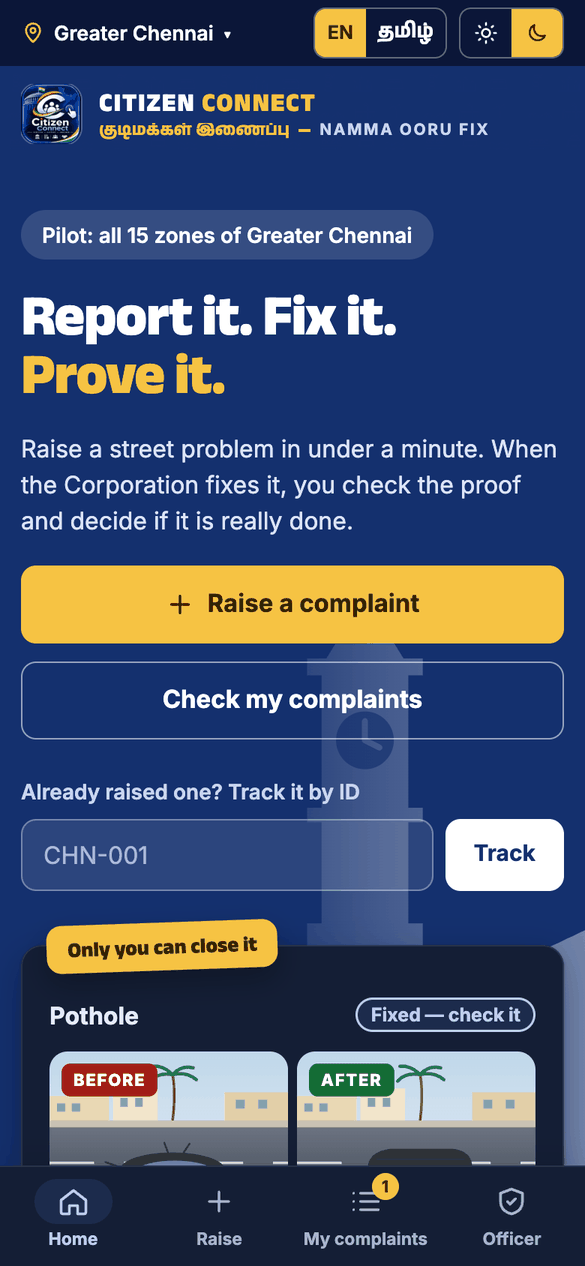
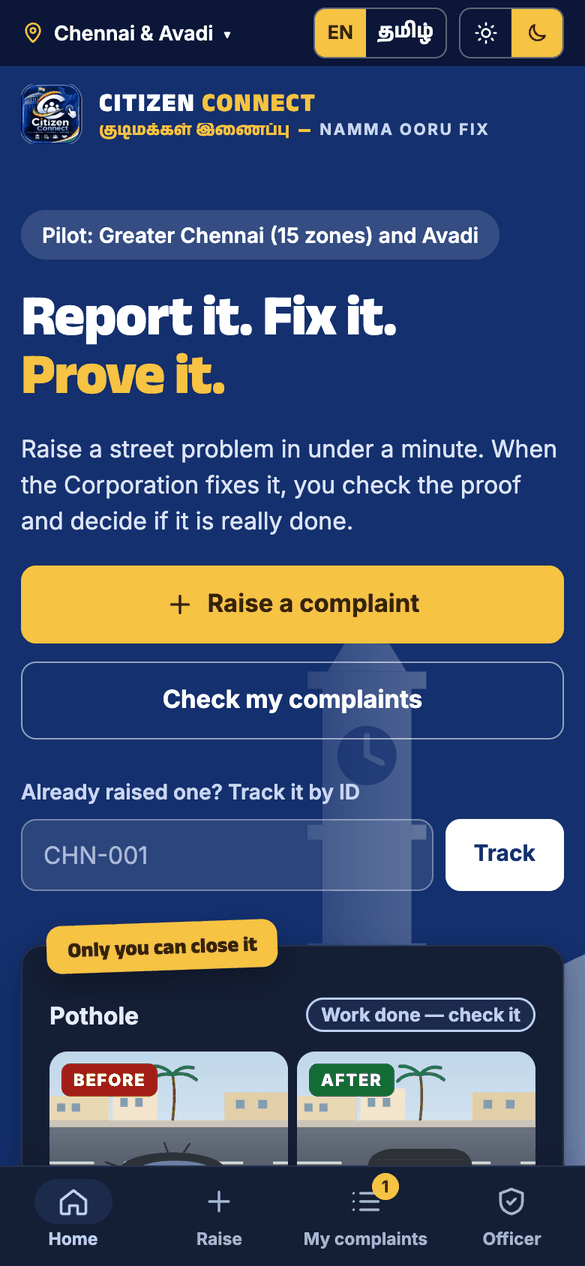
Demo mode for presenting; README and screenshots for the new loop
- Demo mode (footer switch, off by default, yellow banner when on): adds
  'Use a demo photo' and 'Use demo location' on Raise and Mark resolved.
  A demo photo counts as taken now, so it passes the photo-date check;
  complaints that used one are labelled as demo.
- README rewritten for the follow-up / citizen-resolves loop, Avadi, and
  demo mode; screenshots retaken.
- Tests: 50 unit tests, 48-check end-to-end run including demo mode.

diff --git a/js/pages/verify.js b/js/pages/verify.js
@@ -3,17 +3,17 @@
 // shown next to the first photo; "Reopen" sends it back to the officer with a reason.
 
 import { h, icon, toast, param, shortDate, distanceM } from "../helpers.js";
-import { t, lang, catName, ago } from "../i18n.js";
+import { t, lang, catName, ago, prefs } from "../i18n.js";
 import { boot } from "../layout.js";
 import * as store from "../store.js";
 import { checkReason, checkLocation, LIMITS } from "../validate.js";
 import { MAX_FIX_ACCURACY } from "../data.js";
 import { fixBaseline } from "../rules.js";
-import { preparePhoto, putPhoto, deletePhoto, isQuotaError } from "../photos.js";
+import { preparePhoto, putPhoto, deletePhoto, isQuotaError, demoPhoto } from "../photos.js";
 import { badge, compare, photo, timeline, locationMatch, zoneLine, empty, field, dueInfo, fixTiming } from "../ui.js";
 
 const id = (param("id") || "").toUpperCase();
-const res = { blob: null, url: "", takenAt: null, loc: null }; // the new photo for "Mark resolved"
+const res = { blob: null, url: "", takenAt: null, loc: null, demo: false }; // the new photo for "Mark resolved"
 let errs = {}, locating = false, saving = false;
 let reopening = false, reason = "", reasonErr = "";
 let redraw = () => {};
@@ -33,6 +33,17 @@ async function pick(c, file) {
   Object.assign(res, { blob: out.blob, url: URL.createObjectURL(out.blob), takenAt: out.takenAt });
   delete errs.photo;
   redraw();
+}
+
+/** Demo mode: a sample "fixed street" photo, counted as taken now. */
+async function useDemoPhoto() {
+  try {
+    const p = await demoPhoto("img/street-after.svg");
+    if (res.url) URL.revokeObjectURL(res.url);
+    Object.assign(res, { blob: p.blob, url: URL.createObjectURL(p.blob), takenAt: p.takenAt, demo: true });
+    delete errs.photo;
+    redraw();
+  } catch { toast(t("Could not load the demo photo"), { kind: "err" }); }
 }
 
 /** GPS where the new photo was taken (always a fresh reading). */
@@ -62,9 +73,9 @@ async function resolve(c) {
   const key = "r-" + Date.now().toString(36) + Math.random().toString(36).slice(2, 7);
   try {
     await putPhoto(key, res.blob);
-    const { previous } = store.move(c.id, "Verified", "citizen", { afterPhoto: "idb:" + key, afterTakenAt: res.takenAt, afterLat: res.loc.lat, afterLng: res.loc.lng, afterAcc: res.loc.acc });
+    const { previous } = store.move(c.id, "Verified", "citizen", { afterPhoto: "idb:" + key, afterTakenAt: res.takenAt, afterLat: res.loc.lat, afterLng: res.loc.lng, afterAcc: res.loc.acc, demo: res.demo });
     if (res.url) URL.revokeObjectURL(res.url);
-    Object.assign(res, { blob: null, url: "", takenAt: null, loc: null });
+    Object.assign(res, { blob: null, url: "", takenAt: null, loc: null, demo: false });
     toast(t("✓ Resolved — complaint closed"), { action: t("Undo"), ms: 5000, onAction: () => { store.restore(previous); deletePhoto(key).catch(() => {}); redraw(); } });
   } catch (e) {
     deletePhoto(key).catch(() => {});
@@ -112,10 +123,12 @@ function decide(c) {
       res.url ? h("div", { class: "photo-meta" }, h("span", { class: "muted", text: t("Taken {when} · shown next to your first photo", { when: shortDate(new Date(res.takenAt).toISOString(), lang()) }) }),
           h("button", { type: "button", class: "link-btn", onclick: () => { URL.revokeObjectURL(res.url); Object.assign(res, { blob: null, url: "", takenAt: null }); redraw(); }, text: t("Retake photo") }))
         : h("label", { for: "after", class: "drop" + (errs.photo ? " err" : "") }, icon("camera", 28), h("b", { text: t("Take a new photo") })),
+      !res.url && prefs().demo ? h("div", { class: "loc-btns demo-btns" }, h("button", { type: "button", class: "btn btn-ghost", onclick: useDemoPhoto }, icon("camera", 18), t("Use a demo photo"))) : null,
       errs.photo ? h("p", { class: "field-err", role: "alert", text: errs.photo }) : null),
     h("div", { class: "field" + (errs.loc ? " has-err" : "") }, h("p", { class: "field-label", text: t("Where did you take it?") }),
       res.loc ? h("p", { class: "match " + (dist <= 50 ? "ok" : "far") }, icon(dist <= 50 ? "check" : "info", 18), t("{d} m from your first pin", { d: dist }) + ` · ${t("accuracy {m} m", { m: res.loc.acc })}`)
-        : h("div", { class: "loc-btns" }, h("button", { type: "button", class: "btn btn-primary", disabled: locating || null, onclick: locate }, icon("pin", 18), locating ? t("Finding you…") : t("Use my location"))),
+        : h("div", { class: "loc-btns" }, h("button", { type: "button", class: "btn btn-primary", disabled: locating || null, onclick: locate }, icon("pin", 18), locating ? t("Finding you…") : t("Use my location")),
+            prefs().demo ? h("button", { type: "button", class: "btn btn-ghost", onclick: () => { res.demo = true; setLoc({ lat: c.lat + 0.00008, lng: c.lng + 0.00005, acc: 10 }); }, text: t("Use demo location") }) : null),
       errs.loc ? h("p", { class: "field-err", role: "alert", text: errs.loc }) : null),
     h("div", { class: c.status === "Fixed" ? "two" : "" },
       h("button", { type: "button", class: "btn btn-green btn-lg" + (c.status === "Fixed" ? "" : " btn-block") + (saving ? " is-busy" : ""), disabled: saving || null, onclick: () => resolve(c) }, saving ? h("span", { class: "spinner" }) : icon("check", 20), t("Mark resolved")),
@@ -162,7 +175,8 @@ function render(main) {
           fixTiming(c) ? h("p", { class: fixTiming(c).late ? "warn-text" : "", text: fixTiming(c).text }) : null,
           c.afterTakenAt ? h("p", {}, h("b", { text: t("Resolution photo taken:") }), " " + shortDate(new Date(c.afterTakenAt).toISOString(), lang())) : null,
           c.note ? h("p", {}, h("b", { text: t("Your description:") }), " " + c.note) : null,
-          h("p", { class: "muted", text: zoneLine(c) }))),
+          h("p", { class: "muted", text: zoneLine(c) }),
+          c.demo ? h("p", { class: "muted", text: t("Demo mode: a sample photo or location was used.") }) : null)),
       h("div", { class: "col" }, statusNote(c), decide(c),
         h("section", { class: "card block" }, h("h2", { class: "block-title", text: t("What happened") }), timeline(c))))));
 }

diff --git a/js/pages/raise.js b/js/pages/raise.js
@@ -2,12 +2,12 @@
 // Nothing is saved until every check in validate.js passes.
 
 import { h, icon, toast, toastNext, distanceM, reducedMotion } from "../helpers.js";
-import { t, catName, placeName } from "../i18n.js";
-import { CATEGORIES, placeFor } from "../data.js";
+import { t, catName, placeName, prefs } from "../i18n.js";
+import { CATEGORIES, placeFor, catByKey, DEMO_POINT } from "../data.js";
 import { boot } from "../layout.js";
 import * as store from "../store.js";
 import { checkRaise, checkLocation, LIMITS } from "../validate.js";
-import { preparePhoto, putPhoto, deletePhoto, isQuotaError } from "../photos.js";
+import { preparePhoto, putPhoto, deletePhoto, isQuotaError, demoPhoto } from "../photos.js";
 import { field, pageHead } from "../ui.js";
 
 const q = new URLSearchParams(location.search);
@@ -15,6 +15,7 @@ const form = {
   cat: CATEGORIES.some((c) => c.key === q.get("cat")) ? q.get("cat") : "",
   photo: null, photoURL: "", photoInfo: "", photoTakenAt: null,
   loc: null, area: "", note: "",
+  demo: false, // a demo-mode photo or location was used
 };
 let showMore = q.get("more") === "1" || CATEGORIES.findIndex((c) => c.key === form.cat) >= 9;
 let tried = false, sending = false, locating = false, photoErr = "", locErr = "";
@@ -71,7 +72,19 @@ function photoStep(err) {
   return h("section", { class: "card block" + (err ? " has-err" : ""), id: "sec-photo", "aria-labelledby": "h-photo" },
     h("h2", { id: "h-photo", class: "block-title", text: t("2 · Add a photo") }), input, body,
     h("p", { class: "field-hint", text: t("Keep people’s faces and vehicle number plates out of the photo.") }),
+    !form.photo && prefs().demo ? h("div", { class: "loc-btns demo-btns" }, h("button", { type: "button", class: "btn btn-ghost", onclick: useDemoPhoto }, icon("camera", 18), t("Use a demo photo"))) : null,
     err ? h("p", { class: "field-err", role: "alert", text: t(err) }) : null);
+}
+
+/** Demo mode: a sample photo of the chosen problem type (or a random one), counted as taken now. */
+async function useDemoPhoto() {
+  const cat = form.cat ? catByKey(form.cat) : CATEGORIES[Math.floor(Math.random() * (CATEGORIES.length - 1))];
+  try {
+    const p = await demoPhoto(`img/scenes/${cat.scene}.svg`);
+    form.demo = true;
+    setPhoto(p.blob, `${t("Demo photo")} · ${t(cat.en)} · ${Math.round(p.blob.size / 1024)} KB`, p.takenAt);
+    toast(t("Demo photo added"));
+  } catch { toast(t("Could not load the demo photo"), { kind: "err" }); }
 }
 
 /** Keep the chosen photo in memory until submit. */
@@ -117,7 +130,8 @@ function locStep(err) {
         h("a", { class: "link", href: `https://www.openstreetmap.org/?mlat=${form.loc.lat}&mlon=${form.loc.lng}#map=18/${form.loc.lat}/${form.loc.lng}`, target: "_blank", rel: "noopener noreferrer", text: t("View on map") })),
         h("p", { text: `${form.loc.lat.toFixed(4)}, ${form.loc.lng.toFixed(4)} · ${placeName(form.loc)}${form.loc.acc ? " · " + t("accuracy {m} m", { m: form.loc.acc }) : ""}` }))
     : h("div", { class: "loc-btns" },
-        h("button", { type: "button", class: "btn btn-primary", disabled: locating || null, onclick: locate }, icon("pin", 18), locating ? t("Finding you…") : t("Use my location")));
+        h("button", { type: "button", class: "btn btn-primary", disabled: locating || null, onclick: locate }, icon("pin", 18), locating ? t("Finding you…") : t("Use my location")),
+        prefs().demo ? h("button", { type: "button", class: "btn btn-ghost", onclick: () => { form.demo = true; setLoc(DEMO_POINT); }, text: t("Use demo location (Avadi)") }) : null);
   return h("section", { class: "card block" + (err ? " has-err" : ""), id: "sec-loc", "aria-labelledby": "h-loc" },
     h("h2", { id: "h-loc", class: "block-title", text: t("3 · Where is it?") }), body,
     near ? h("div", { class: "notice" }, icon("info", 18), h("p", {}, h("b", { text: t("Similar complaint nearby:") }), " ", t("{id} ({cat}) is {m} m away and already being handled. You can still submit if this is a different spot.", { id: near.id, cat: catName(near.cat), m: distanceM(near.lat, near.lng, form.loc.lat, form.loc.lng) }))) : null,
@@ -160,7 +174,7 @@ function submitBox() {
 /** Empty everything. */
 function clearForm() {
   if (form.photoURL) URL.revokeObjectURL(form.photoURL);
-  Object.assign(form, { cat: "", photo: null, photoURL: "", photoInfo: "", photoTakenAt: null, loc: null, area: "", note: "" });
+  Object.assign(form, { cat: "", photo: null, photoURL: "", photoInfo: "", photoTakenAt: null, loc: null, area: "", note: "", demo: false });
   tried = false; photoErr = ""; locErr = "";
   redraw();
   toast(t("Form cleared"));
@@ -183,7 +197,7 @@ async function submit(e) {
   const key = "p-" + Date.now().toString(36) + Math.random().toString(36).slice(2, 7);
   try {
     await putPhoto(key, form.photo);
-    const c = store.create({ cat: form.cat, photoRef: "idb:" + key, photoTakenAt: form.photoTakenAt, lat: form.loc.lat, lng: form.loc.lng, acc: form.loc.acc, area: form.area, note: form.note, city: form.loc.city, zone: form.loc.zone });
+    const c = store.create({ cat: form.cat, photoRef: "idb:" + key, photoTakenAt: form.photoTakenAt, lat: form.loc.lat, lng: form.loc.lng, acc: form.loc.acc, area: form.area, note: form.note, city: form.loc.city, zone: form.loc.zone, demo: form.demo });
     toastNext(t("Complaint {id} registered — it is at the top of your list", { id: c.id }));
     setTimeout(() => { location.href = `my.html?new=${encodeURIComponent(c.id)}`; }, reducedMotion() ? 0 : 700);
   } catch (err) {

diff --git a/js/i18n-ta.js b/js/i18n-ta.js
@@ -353,5 +353,17 @@ export default {
  "This place is outside the pilot area (Greater Chennai and Avadi).": "இந்த இடம் முன்னோட்டப் பகுதிக்கு (பெருநகர சென்னை மற்றும் ஆவடி) வெளியே உள்ளது.",
  "Enter the 4-digit PIN.": "4 இலக்க PIN-ஐ உள்ளிடவும்.",
  "This photo was taken before the officer finished the work. Take a new photo at the spot now.": "அதிகாரி வேலையை முடிப்பதற்கு முன்பே இந்தப் புகைப்படம் எடுக்கப்பட்டது. இப்போது அந்த இடத்தில் புதிய புகைப்படம் எடுக்கவும்.",
- "Officer update": "அதிகாரியின் தகவல்"
+ "Officer update": "அதிகாரியின் தகவல்",
+ "Demo mode is on — sample photos and location can be used. Turn it off in the footer.": "டெமோ பயன்முறை இயக்கத்தில் உள்ளது — மாதிரிப் புகைப்படங்களும் இருப்பிடமும் பயன்படுத்தலாம். அடிக்குறிப்பில் அணைக்கலாம்.",
+ "Demo mode on — sample photos and location are available": "டெமோ பயன்முறை இயக்கப்பட்டது — மாதிரிப் புகைப்படங்களும் இருப்பிடமும் கிடைக்கும்",
+ "Demo mode off": "டெமோ பயன்முறை அணைக்கப்பட்டது",
+ "Demo mode: on (turn off)": "டெமோ பயன்முறை: இயக்கத்தில் (அணை)",
+ "Demo mode: off (turn on for presenting)": "டெமோ பயன்முறை: அணைப்பில் (காட்சிப்படுத்த இயக்கு)",
+ "Use a demo photo": "மாதிரிப் புகைப்படம் பயன்படுத்து",
+ "Demo photo": "மாதிரிப் புகைப்படம்",
+ "Demo photo added": "மாதிரிப் புகைப்படம் சேர்க்கப்பட்டது",
+ "Could not load the demo photo": "மாதிரிப் புகைப்படத்தை ஏற்ற முடியவில்லை",
+ "Use demo location (Avadi)": "மாதிரி இருப்பிடம் (ஆவடி)",
+ "Use demo location": "மாதிரி இருப்பிடம் பயன்படுத்து",
+ "Demo mode: a sample photo or location was used.": "டெமோ பயன்முறை: மாதிரிப் புகைப்படம் அல்லது இருப்பிடம் பயன்படுத்தப்பட்டது."
 };

diff --git a/service-worker.js b/service-worker.js
@@ -1,5 +1,5 @@
 // service-worker.js — saves the app's files so it opens offline. Generated by tools-build-sw.py.
-const CACHE = "citizen-connect-ef77f6ca72";
+const CACHE = "citizen-connect-6d1feb6fbd";
 const FILES = ["./css/style.css", "./fonts/anek-latin-latin-800-normal.woff2", "./fonts/anek-tamil-tamil-500-normal.woff2", "./fonts/anek-tamil-tamil-700-normal.woff2", "./fonts/anek-tamil-tamil-800-normal.woff2", "./fonts/inter-latin-400-normal.woff2", "./fonts/inter-latin-600-normal.woff2", "./fonts/inter-latin-700-normal.woff2", "./fonts/inter-latin-800-normal.woff2", "./img/icons/icon-180.png", "./img/icons/icon-192.png", "./img/icons/icon-32.png", "./img/icons/icon-512.png", "./img/icons/icon-maskable-512.png", "./img/logo-96.png", "./img/pattern-dark.svg", "./img/scenes/broken-footpath.svg", "./img/scenes/construction-debris.svg", "./img/scenes/drainage-overflow.svg", "./img/scenes/fallen-tree.svg", "./img/scenes/garbage-on-road.svg", "./img/scenes/hanging-wire.svg", "./img/scenes/open-manhole.svg", "./img/scenes/other.svg", "./img/scenes/pothole.svg", "./img/scenes/public-toilet.svg", "./img/scenes/stray-animals.svg", "./img/scenes/streetlight-off.svg", "./img/scenes/water-pipe-leak.svg", "./img/scenes/water-stagnation.svg", "./img/skyline-a.svg", "./img/street-after.svg", "./img/street-before.svg", "./index.html", "./js/data.js", "./js/helpers.js", "./js/i18n-ta.js", "./js/i18n.js", "./js/layout.js", "./js/pages/home.js", "./js/pages/login.js", "./js/pages/my.js", "./js/pages/officer.js", "./js/pages/raise.js", "./js/pages/update.js", "./js/pages/verify.js", "./js/photos.js", "./js/rules.js", "./js/store.js", "./js/ui.js", "./js/validate.js", "./login.html", "./manifest.json", "./my.html", "./officer.html", "./raise.html", "./update.html", "./verify.html"];
 
 // Save every file on install.

diff --git a/js/layout.js b/js/layout.js
@@ -128,7 +128,8 @@ function header(active, officerPage, rerender) {
         tab("my.html", "my", t("My complaints"), need ? h("span", { class: "count", "aria-label": t("{n} need your check", { n: need }), text: need }) : null),
         h("a", { href: isOfficer() ? "officer.html" : "login.html", class: "nav-btn" + (active === "login" ? " on" : "") }, icon("shield", 16), t("Officer login")));
   const main = h("header", { class: "head" }, h("div", { class: "wrap head-in" }, brand(), nav));
-  return [util, main];
+  const demo = p.demo ? h("div", { class: "demo-strip", role: "status" }, h("div", { class: "wrap" }, icon("info", 16), t("Demo mode is on — sample photos and location can be used. Turn it off in the footer."))) : null;
+  return [util, main, demo].filter(Boolean);
 }
 
 /** Bottom tab bar for phones. */
@@ -161,7 +162,12 @@ function footer() {
         setOfficer(false);
         toast(t("All data on this device erased"));
         setTimeout(() => { location.href = "index.html"; }, 600);
-      } }, t("Erase data on this device")))));
+      } }, t("Erase data on this device")),
+      h("button", { type: "button", class: "link-btn", "aria-pressed": prefs().demo ? "true" : "false", onclick: () => {
+        setPref("demo", !prefs().demo);
+        toast(prefs().demo ? t("Demo mode on — sample photos and location are available") : t("Demo mode off"), { kind: "info" });
+        setTimeout(() => location.reload(), 600);
+      } }, prefs().demo ? t("Demo mode: on (turn off)") : t("Demo mode: off (turn on for presenting)")))));
 }
 
 /** Ask before wiping (uses a simple built-in prompt-free two-tap confirm). */

diff --git a/js/pages/update.js b/js/pages/update.js
@@ -128,7 +128,8 @@ function render(main) {
         h("div", { class: "card block facts" },
           h("p", {}, h("b", { text: t("Location:") }), ` ${c.lat.toFixed(5)}, ${c.lng.toFixed(5)}` + (c.acc ? ` · ${t("accuracy {m} m", { m: c.acc })}` : "")),
           h("p", {}, h("a", { class: "btn btn-primary", href: `https://www.google.com/maps/dir/?api=1&destination=${c.lat},${c.lng}`, target: "_blank", rel: "noopener noreferrer" }, icon("pin", 18), t("Directions to the spot"))),
-          c.note ? h("p", {}, h("b", { text: t("Citizen's description:") }), " " + c.note) : null)),
+          c.note ? h("p", {}, h("b", { text: t("Citizen's description:") }), " " + c.note) : null,
+          c.demo ? h("p", { class: "muted", text: t("Demo mode: a sample photo or location was used.") }) : null)),
       h("div", { class: "col" }, action(c), h("section", { class: "card block" }, h("h2", { class: "block-title", text: t("What happened") }), timeline(c))))));
 }
 

diff --git a/js/photos.js b/js/photos.js
@@ -90,6 +90,22 @@ export function setImg(img, ref) {
   photoURL(ref).then((u) => { if (u) img.src = u; });
 }
 
+/**
+ * Demo mode: turn one of the app's own pictures into a JPEG "photo taken now", so the loop can be
+ * shown without a camera. Complaints that use it are marked as demo.
+ */
+export async function demoPhoto(path) {
+  const img = new Image();
+  img.src = path;
+  await img.decode();
+  const canvas = document.createElement("canvas");
+  canvas.width = 1200; canvas.height = 800;
+  canvas.getContext("2d").drawImage(img, 0, 0, canvas.width, canvas.height);
+  const blob = await new Promise((r) => canvas.toBlob(r, "image/jpeg", 0.8));
+  if (!blob) throw new Error("demo-photo");
+  return { blob, width: canvas.width, height: canvas.height, takenAt: Date.now() };
+}
+
 /** Decode an image file to check it is a real picture and get its size. */
 function decode(file) {
   return new Promise((resolve) => {

diff --git a/js/store.js b/js/store.js
@@ -52,12 +52,12 @@ function takeId() {
 }
 
 /** Create a new complaint from a validated form; returns the saved complaint. */
-export function create({ cat, photoRef, photoTakenAt, lat, lng, acc, area, note, city, zone }) {
+export function create({ cat, photoRef, photoTakenAt, lat, lng, acc, area, note, city, zone, demo = false }) {
   const now = new Date().toISOString();
   const c = {
     id: takeId(), cat, area: area.trim(), city, zone, lat, lng, acc: acc || null, note: (note || "").trim(), status: "Submitted", mine: true,
     beforePhoto: photoRef, beforeTakenAt: photoTakenAt || null, afterPhoto: null, officerNote: "", afterLat: null, afterLng: null,
-    reopenCount: 0, reText: "", createdAt: now, updatedAt: now,
+    reopenCount: 0, reText: "", demo, createdAt: now, updatedAt: now,
     history: [{ status: "Submitted", at: now, by: "citizen", note: "" }],
   };
   const list = all();

diff --git a/css/style.css b/css/style.css
@@ -308,6 +308,9 @@ button.stat.on { border-color: var(--link); box-shadow: 0 0 0 2px var(--link); }
 .photo-meta { display: flex; justify-content: space-between; align-items: center; gap: 8px; flex-wrap: wrap; font-size: 13.5px; }
 .loc-btns { display: flex; gap: 10px; flex-wrap: wrap; }
 .due-pick { display: grid; gap: 10px; }
+.demo-strip { background: #FFE9A8; color: #5A4300; font-size: 13.5px; font-weight: 600; }
+.demo-strip .wrap { display: flex; gap: 8px; align-items: center; padding-top: 6px; padding-bottom: 6px; }
+.demo-btns { margin-top: 10px; }
 .loc-ok { padding: 12px 14px; border-radius: var(--r-sm); background: var(--green-bg); display: grid; gap: 4px; font-size: 14.5px; }
 .loc-row { display: flex; justify-content: space-between; gap: 10px; flex-wrap: wrap; }
 .loc-ok b { color: var(--green); }

diff --git a/js/i18n.js b/js/i18n.js
@@ -7,10 +7,10 @@ import { catByKey, ZONES } from "./data.js";
 
 const PREFS = "cc.prefs.v1";
 
-/** Saved preferences: language, theme, list/grid view, tour seen. */
+/** Saved preferences: language, theme, list/grid view, tour seen, demo mode. */
 export function prefs() {
   const p = readJSON(PREFS, {});
-  return { lang: p.lang === "ta" ? "ta" : "en", theme: p.theme === "dark" || p.theme === "light" ? p.theme : null, view: p.view === "grid" ? "grid" : "list", tour: !!p.tour };
+  return { lang: p.lang === "ta" ? "ta" : "en", theme: p.theme === "dark" || p.theme === "light" ? p.theme : null, view: p.view === "grid" ? "grid" : "list", tour: !!p.tour, demo: !!p.demo };
 }
 
 /** Change one preference. */

diff --git a/tests/rules.test.js b/tests/rules.test.js
@@ -89,6 +89,11 @@ test("resolving stores the photo, its place and time, and keeps it in the timeli
   assert.equal(n.history.at(-1).by, "citizen");
 });
 
+test("resolving with a demo photo marks the complaint as demo", () => {
+  assert.equal(applyMove(base("Fixed"), "Verified", "citizen", { ...proof, demo: true }).demo, true);
+  assert.equal(applyMove(base("Fixed"), "Verified", "citizen", proof).demo, undefined);
+});
+
 // Reopen
 test("reopen is only possible after the officer says work is done", () => {
   assert.equal(canMove(base("In progress"), "Reopened", "citizen", { reason: "Only half filled" }).reason, "not-allowed");

diff --git a/js/rules.js b/js/rules.js
@@ -73,6 +73,7 @@ export function applyMove(complaint, to, actor, extra = {}, now = new Date().toI
     next.afterLng = extra.afterLng;
     next.afterAcc = typeof extra.afterAcc === "number" ? extra.afterAcc : null;
     next.resolvedAt = now;
+    if (extra.demo) next.demo = true; // a demo-mode photo or location was used
     entry.photo = extra.afterPhoto;
   }
   if (to === "Reopened") {
